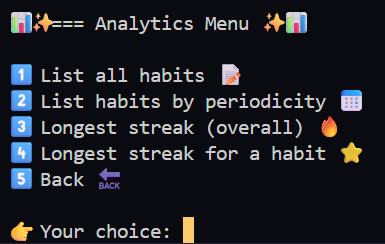
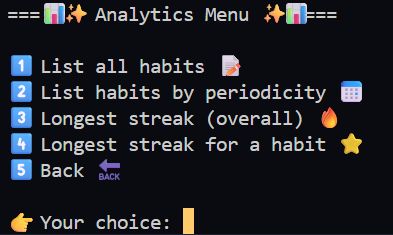
new pics

diff --git a/cli.py b/cli.py
@@ -52,7 +52,7 @@ while True:
     # Analytics submenu
     elif choice == "4":
         while True:
-            print("\n📊✨=== Analytics Menu ✨📊\n")
+            print("\n===📊✨ Analytics Menu ✨📊===\n")
 
             print("1⃣  List all habits 📝")
             print("2⃣  List habits by periodicity 📅")
